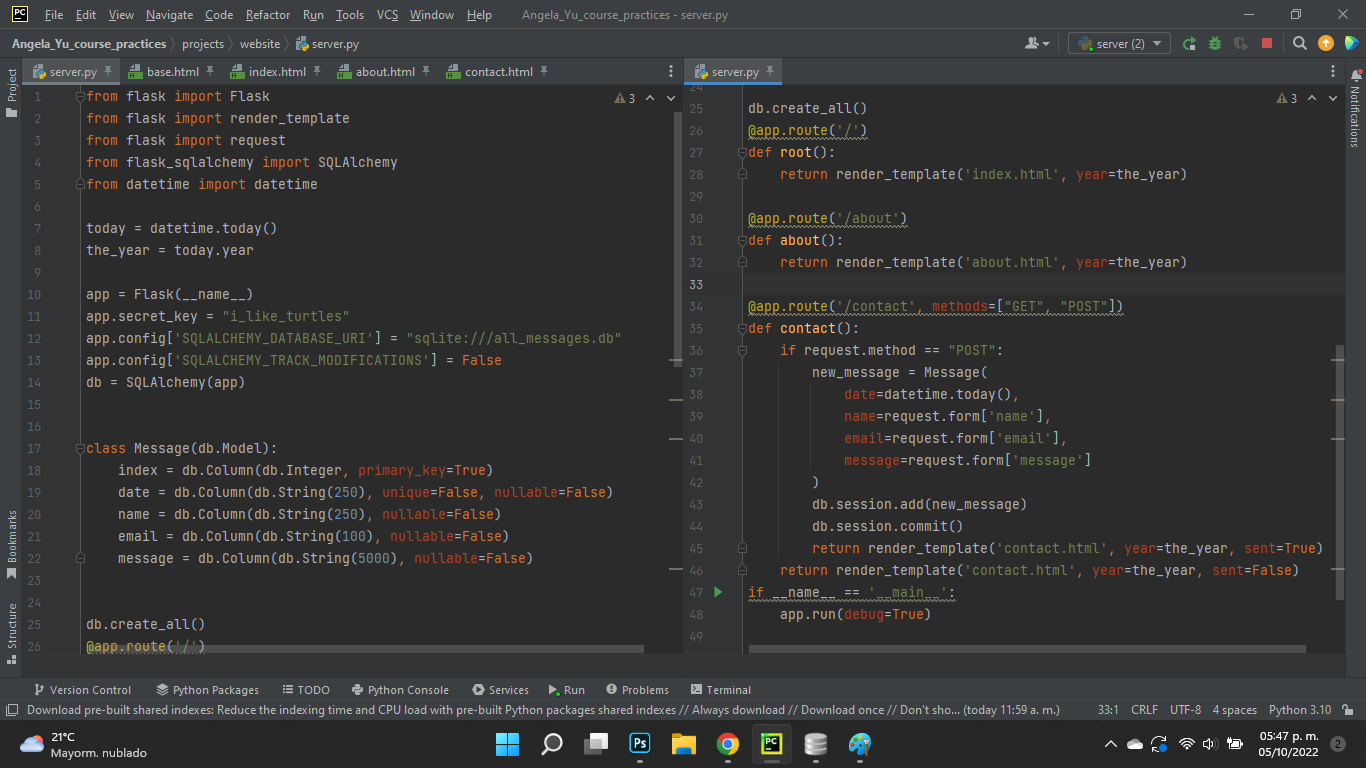
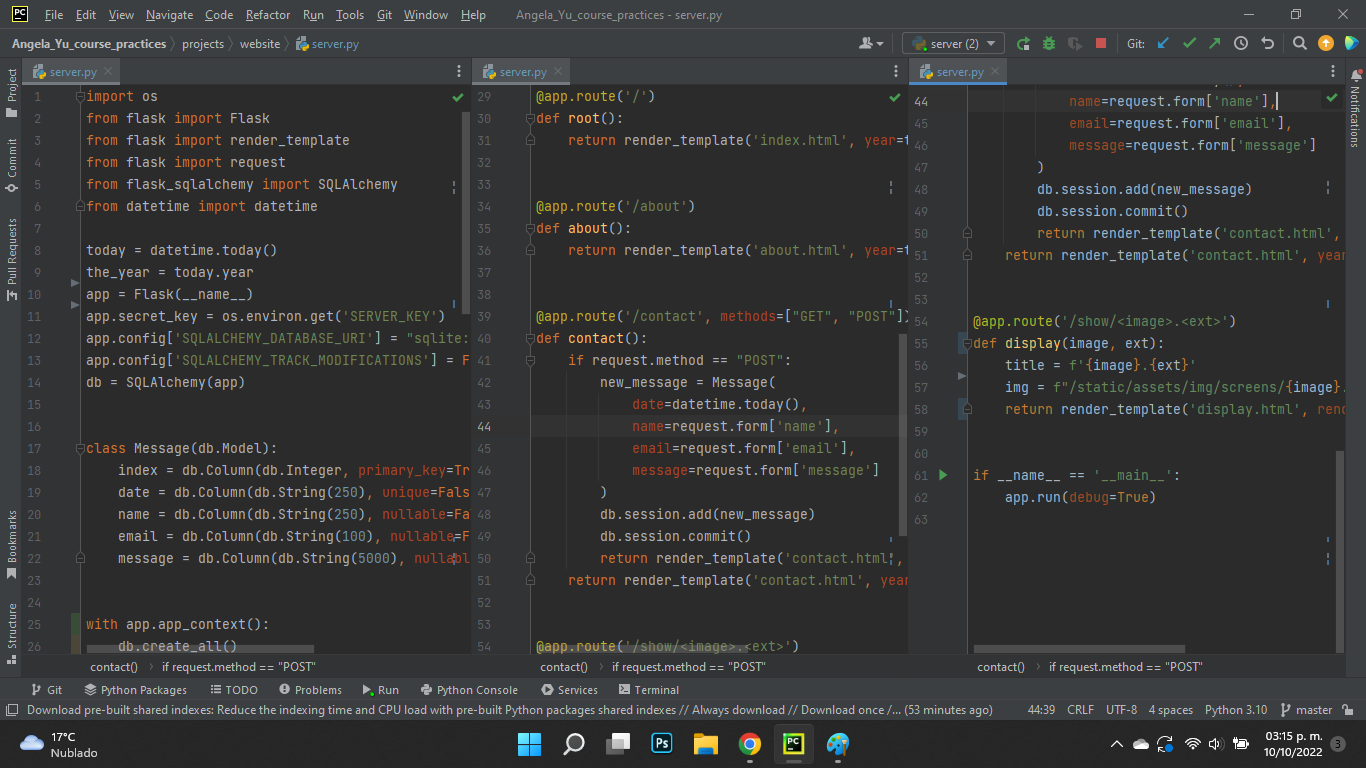
Initial Commit

diff --git a/projects/website/templates/index.html b/projects/website/templates/index.html
@@ -37,14 +37,14 @@ In combination, all of these files make this site work. More details below.</p>
                 <br>
                 Finally come the routes that will give access to the different pages on our website.
                 <br>
-                In the rout '/about' we use the db model along with the request method to catch the info and message from
+                In the route '/contact' we use the db model along with the request method to catch the info and message from
                 the user's communication. And finally we add it into the db.
             </p>
         </div>
     <div class="col-md-2 img-explanation">
             <div class="card">
                 <div class="card-body smol-card">
-                    <a href="{{url_for('carousel', image='server', ext='py')}}">
+                    <a href="{{url_for('display', image='server', ext='py')}}">
                         <img class="img-card" src="static/assets/img/screens/server.png">
                     </a>
                 </div>
@@ -62,7 +62,7 @@ In combination, all of these files make this site work. More details below.</p>
     <div class="col-md-2 img-explanation">
             <div class="card">
                 <div class="card-body smol-card">
-                    <a href="{{url_for('carousel', image='base', ext='html')}}">
+                    <a href="{{url_for('display', image='base', ext='html')}}">
                         <img class="img-card" src="static/assets/img/screens/base.png">
                     </a>
                 </div>
@@ -75,7 +75,7 @@ In combination, all of these files make this site work. More details below.</p>
             <br>
             Note the creation of several <b>"blocks"</b>, this will aid us in adapting the content of the pages while keeping
             a consistent design throughout the site. These blocks work through a templating language called <b>Jinja</b>,
-            which is embedded inside of Flask, so no need to import it in the server.py.
+            which is embedded inside of Flask, so no need to import it in the server.
             <br>
             The footer can be outside the "blocks" since it will be the same in every page.
 
@@ -92,17 +92,18 @@ In combination, all of these files make this site work. More details below.</p>
     <div class="col-md-2 text-explanation">
             <p class="card-paragraph-odd" align="justify">
                 This is by far the busiest file on the site. It starts by extending the base.html template; doing this we
-                can save many lines of code because the styles and script comes from there and also be able to open the blocks.
+                can save many lines of code because the styles and script comes from there. Also, via the base.html, we are
+                able to open the <b>blocks</b> to make the code more adaptable.
             <br>
-                Inside these blocks we can then take advantage of Bootstrap to create a fully functional carousel with buttons
-                and indicators, as well as a set of cards that display these very images and descriptions, all of this in a
-                time-saving manner. The magic of working with Flask, Jinja, and Bootstrap in conjunction.
+                Inside these blocks we can then take advantage of Bootstrap to create a fully functional set of cards 
+                that render various images and their descriptions, as well as containing links to a <b>display</b> page
+                that expands the view of each image.
             </p>
         </div>
     <div class="col-md-2 img-explanation">
             <div class="card">
                 <div class="card-body smol-card">
-                    <a href="{{url_for('carousel', image='index', ext='html')}}">
+                    <a href="{{url_for('display', image='index', ext='html')}}">
                         <img class="img-card" src="static/assets/img/screens/index.png">
                     </a>
                 </div>
@@ -120,7 +121,7 @@ In combination, all of these files make this site work. More details below.</p>
     <div class="col-md-2 img-explanation">
             <div class="card">
                 <div class="card-body smol-card">
-                    <a href="{{url_for('carousel', image='about', ext='html')}}">
+                    <a href="{{url_for('display', image='about', ext='html')}}">
                         <img class="img-card" src="static/assets/img/screens/about.png">
                     </a>
                 </div>
@@ -141,7 +142,7 @@ In combination, all of these files make this site work. More details below.</p>
     <h6 class="mini-subtitles" style="padding: 0;"><b>contact.html</b></h6>
     <div class="col-md-2 text-explanation">
             <p class="card-paragraph-odd" align="justify">
-                In contact we use Bootstrap to create a simple, yet pretty-looking form that allows the user to write and
+                In <b>contact</b> we use Bootstrap to create a simple, yet pretty-looking form that allows the user to write and
                 send a message after filling the fields. The info is caught and sent to the server using a <b>"POST"</b>
                 method, allowing the server to create a new entry on the database that manages communications. Check
                 <b>server.py</b>
@@ -153,7 +154,7 @@ In combination, all of these files make this site work. More details below.</p>
     <div class="col-md-2 img-explanation">
             <div class="card">
                 <div class="card-body smol-card">
-                    <a href="{{url_for('carousel', image='contact', ext='html')}}">
+                    <a href="{{url_for('display', image='contact', ext='html')}}">
                         <img class="img-card" src="static/assets/img/screens/contact.png">
                     </a>
                 </div>
@@ -162,23 +163,48 @@ In combination, all of these files make this site work. More details below.</p>
 
 </div>
 
-<!-- styles-even -->
+<!-- display-even -->
 <div class="row justify-content-around row-explanation">
 
     <div class="row justify-content-end" style="padding: 0;">
-        <h6 class="mini-subtitles col-md-1"  align="right"><b>styles.css</b></h6>
+        <h6 class="mini-subtitles col-md-1"  align="right"><b>display.html</b></h6>
     </div>
     <div class="col-md-2 img-explanation">
             <div class="card">
                 <div class="card-body smol-card">
-                    <a href="{{url_for('carousel', image='styles', ext='css')}}">
-                        <img class="img-card" src="static/assets/img/screens/styles.png">
+                    <a href="{{url_for('display', image='display', ext='html')}}">
+                        <img class="img-card" src="static/assets/img/screens/display.png">
                     </a>
                 </div>
             </div>
         </div>
     <div class="col-md-2 text-explanation">
             <p class="card-paragraph-even" align="justify">
+                Finally we have a <b>display</b> page that mutates to render any image you click on. This is, again, greatly
+                aided by <b>Jinja</b>.
+                <br>
+                It starts by collecting and sending the parameters <b>'image'</b> and <b>'ext'</b>  when an image is clicked,
+                into the <b>'display'</b>  function on the server; then we adapt a couple of variables with these params
+                to locate the right image and give the correct title to the display; and finally these new params are
+                sent to the <b>render_template</b>.
+                <br>
+                Check the route <b>'display'</b>  on <b>server.py</b> to see the entire process and
+                the solution we found to make it adaptable to each image and save some lines of code.
+            </p>
+        </div>
+
+</div>
+
+
+
+<!-- styles-odd -->
+<div class="row justify-content-around row-explanation">
+
+    <div class="row justify-content-end" style="padding: 0;">
+        <h6 class="mini-subtitles col-md-1"  align="right"><b>styles.css</b></h6>
+    </div>
+    <div class="col-md-2 text-explanation">
+            <p class="card-paragraph-odd" align="justify">
                 Although Bootstrap is great, more often than not you'll need to twick its default styles to get the
                 perfect look and feel to your project. To do so, we created a <b>CSS</b> styles sheet that keeps elements
                 of the design (such as margins and paddings), as well as the look consistent throughout the site.
@@ -187,10 +213,19 @@ In combination, all of these files make this site work. More details below.</p>
                 shadows and focus of Bootstrap Forms are of a blue-ish hue.
             </p>
         </div>
+    <div class="col-md-2 img-explanation">
+            <div class="card">
+                <div class="card-body smol-card">
+                    <a href="{{url_for('display', image='styles', ext='css')}}">
+                        <img class="img-card" src="static/assets/img/screens/styles.png">
+                    </a>
+                </div>
+            </div>
+        </div>
 
 </div>
 
-
+<!-- back button -->
 <div class="row justify-content-end row-explanation">
 
        <a class="col-md-2 button ms-auto" href="{{url_for('root')}}">

diff --git a/projects/website/templates/display.html b/projects/website/templates/display.html
@@ -12,23 +12,18 @@
 {% endblock %}
 
 {% block body %}
-
 <div class="t-s-bundle">
 <h3 class="titles">{{tlt}}</h3>
 </div>
-
 <div class="card">
     <div class="card-body smol-card">
         <img class="img-card" src="{{render}}">
     </div>
 </div>
-
 <div class="row justify-content-end row-explanation">
 
        <a class="col-md-1 button ms-auto" href="{{url_for('root')}}">
            <button type="button" class="btn btn-outline-dark button-back">Back</button>
        </a>
-
 </div>
-
 {% endblock %}

diff --git a/projects/website/server.py b/projects/website/server.py
@@ -7,9 +7,7 @@ from datetime import datetime
 
 today = datetime.today()
 the_year = today.year
-
 app = Flask(__name__)
-
 app.secret_key = os.environ.get('SERVER_KEY')
 app.config['SQLALCHEMY_DATABASE_URI'] = "sqlite:///all_messages.db"
 app.config['SQLALCHEMY_TRACK_MODIFICATIONS'] = False
@@ -24,7 +22,8 @@ class Message(db.Model):
     message = db.Column(db.String(5000), nullable=False)
 
 
-db.create_all()
+with app.app_context():
+    db.create_all()
 
 
 @app.route('/')
@@ -53,12 +52,10 @@ def contact():
 
 
 @app.route('/show/<image>.<ext>')
-def carousel(image, ext):
+def display(image, ext):
     title = f'{image}.{ext}'
-    print(image)
-    print(ext)
     img = f"/static/assets/img/screens/{image}.png"
-    return render_template('carousel.html', render=img, tlt=title)
+    return render_template('display.html', render=img, tlt=title)
 
 
 if __name__ == '__main__':
